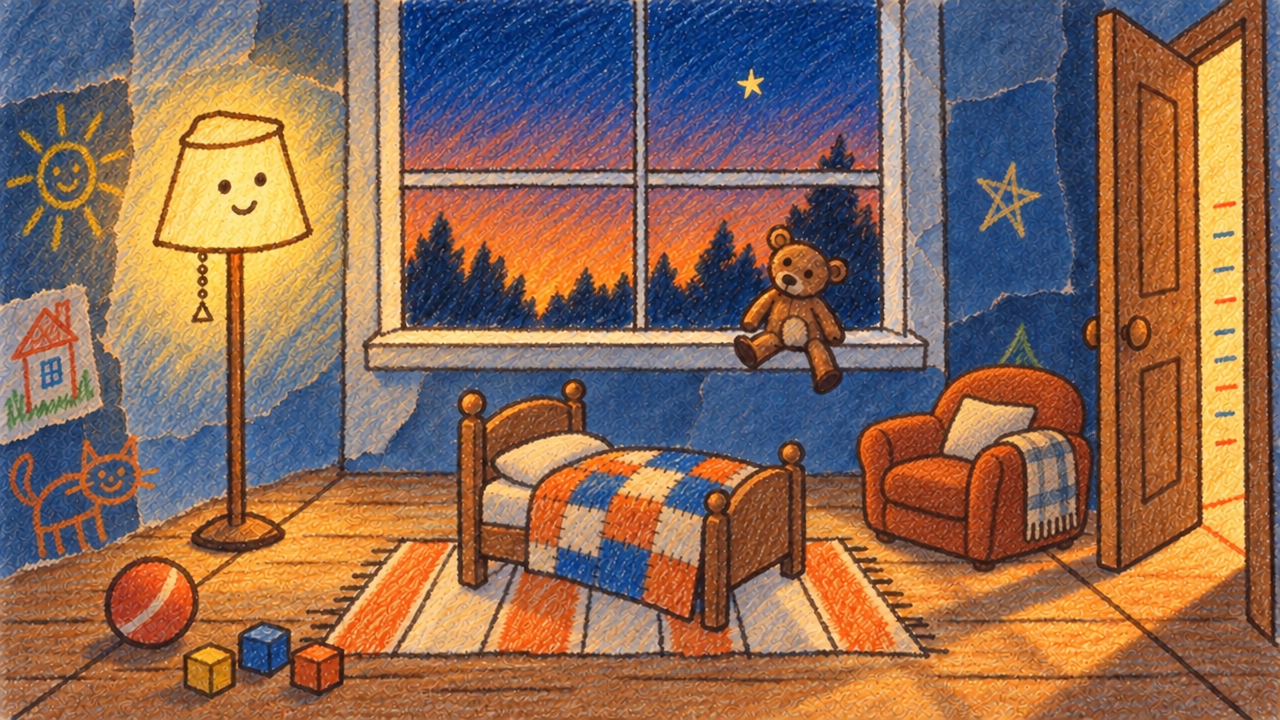
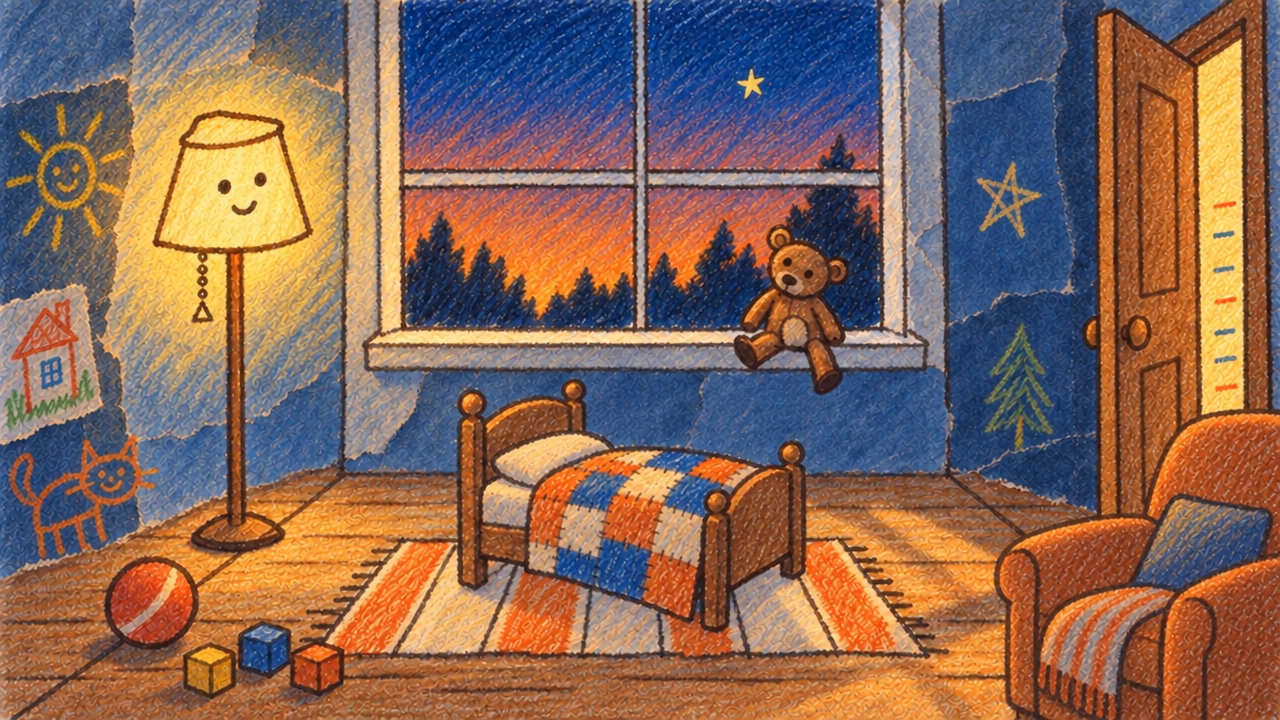
Film join script with dissolves; interim film v4

Changed region(s): [[0.6562, 0.4889, 1.0, 1.0]]

diff --git a/scripts/make_film.py b/scripts/make_film.py
@@ -1,0 +1,32 @@
+#!/usr/bin/env python3
+"""Join the scene clips into one silent film with 0.5 s dissolves between scenes (ending clips joined hard).
+usage: make_film.py OUT.mp4   (falls back to the v3 clip for any v4 clip that does not exist yet)"""
+import os, subprocess, sys
+D=0.5
+scenes=[ (['exports/s01_v4_silent.mp4'],['exports/s01_v3_silent.mp4']),
+         (['exports/s02_v4_silent.mp4'],['exports/s02_v3_silent.mp4']),
+         (['exports/s03_v4_silent.mp4'],['exports/s03_v3_blue_silent.mp4']),
+         (['exports/s04_v4_silent.mp4'],['exports/s04_v2_silent.mp4']),
+         (['exports/s05_v2_silent.mp4'],['exports/s05_v2_silent.mp4']),
+         (['exports/s06_v5_silent.mp4'],['exports/s06_v4_silent.mp4']),
+         (['exports/s7_v4_a_silent.mp4','exports/s7_v4_b_silent.mp4'],['exports/s78_v3_a_silent.mp4','exports/s78_v3_b_silent.mp4'])]
+def dur(f): return float(subprocess.check_output(['ffprobe','-v','error','-show_entries','format=duration','-of','csv=p=0',f]))
+chosen=[]
+for new,old in scenes:
+    use=new if all(os.path.exists(f) for f in new) else old
+    print(('NEW ' if use is new else 'fallback ')+', '.join(use)); chosen.append(use)
+cmd=['ffmpeg','-v','error','-y']; inputs=[]; seg=[]   # seg: (input indices, duration)
+for use in chosen:
+    idx=[]
+    for f in use: cmd+=['-i',f]; idx.append(len(inputs)); inputs.append(f)
+    seg.append((idx,sum(dur(f) for f in use)))
+filt=''; labels=[]
+for si,(idx,_) in enumerate(seg):
+    for k in idx: filt+=f'[{k}:v]scale=1920:1080,setsar=1,fps=24,format=yuv420p[n{k}];'
+    filt+=''.join(f'[n{k}]' for k in idx)+f'concat=n={len(idx)}:v=1:a=0[s{si}];'
+cur='s0'; t=seg[0][1]
+for si in range(1,len(seg)):
+    off=t-D; filt+=f'[{cur}][s{si}]xfade=transition=fade:duration={D}:offset={off:.3f}[x{si}];'; cur=f'x{si}'; t=off+D+seg[si][1]-D if False else t+seg[si][1]-D
+filt=filt.rstrip(';')
+cmd+=['-filter_complex',filt,'-map',f'[{cur}]','-c:v','libx264','-crf','16','-pix_fmt','yuv420p',sys.argv[1]]
+subprocess.run(cmd,check=True); print('total about %.1f s'%t)

diff --git a/docs/log.md b/docs/log.md
@@ -262,3 +262,9 @@ Newest entries at the bottom. Times are CET on Nov 5, 2026. Each entry says what
 - **Checks per clip (look at `stills/<prefix>_check.png`):** same bear size, armchair at the right front corner in every stage except 4, no sparkles or confetti, nothing pops in, lamp pole straight.
 - **Open decisions:** sound (the kit needs an audio track; the team paused it; a fallback is the generated music `audio/music.wav` laid under the cut, no effects, only on the team's yes); the team name for `teamname_filmtitle.mp4`; the final export must be 1920x1080 at 24 fps with audio, MP4.
 - Balance about 357,000 of 610,000 used at 21:34 (counter lags; subagent retries add up).
+
+### 22:20 · Three new endings (the funeral ending was rejected)
+- Team did not like the funeral ending. Made 46-52 s endings, two takes each: `lullaby` (hymn, then the first music-box lullaby returns), `secondline` (dirge breaking into a joyful second line), `hymn` (solo clarinet and piano). Clips `audio/jazz6/s8_<name>_1|2.mp3`; sections 1-7 unchanged (glued B). Outputs `exports/film_v2_end_<name>_1|2.mp4`. Not listened to. Nothing committed.
+
+### 22:05 · Joining script and interim film v4
+- `scripts/make_film.py OUT.mp4` joins the scene clips with 0.5 s dissolves (the two ending clips joined hard) and falls back to the v3 clip for any missing v4 clip. Interim `exports/film_v4_silent.mp4` (57.0 s) built with stages 1, 3, 4, 5, 6 new and stage 2 and the ending from v3. Stages 1, 3, 4, 6 v4 clips are in; stage 2 v4 and the ending v4 were still running.
